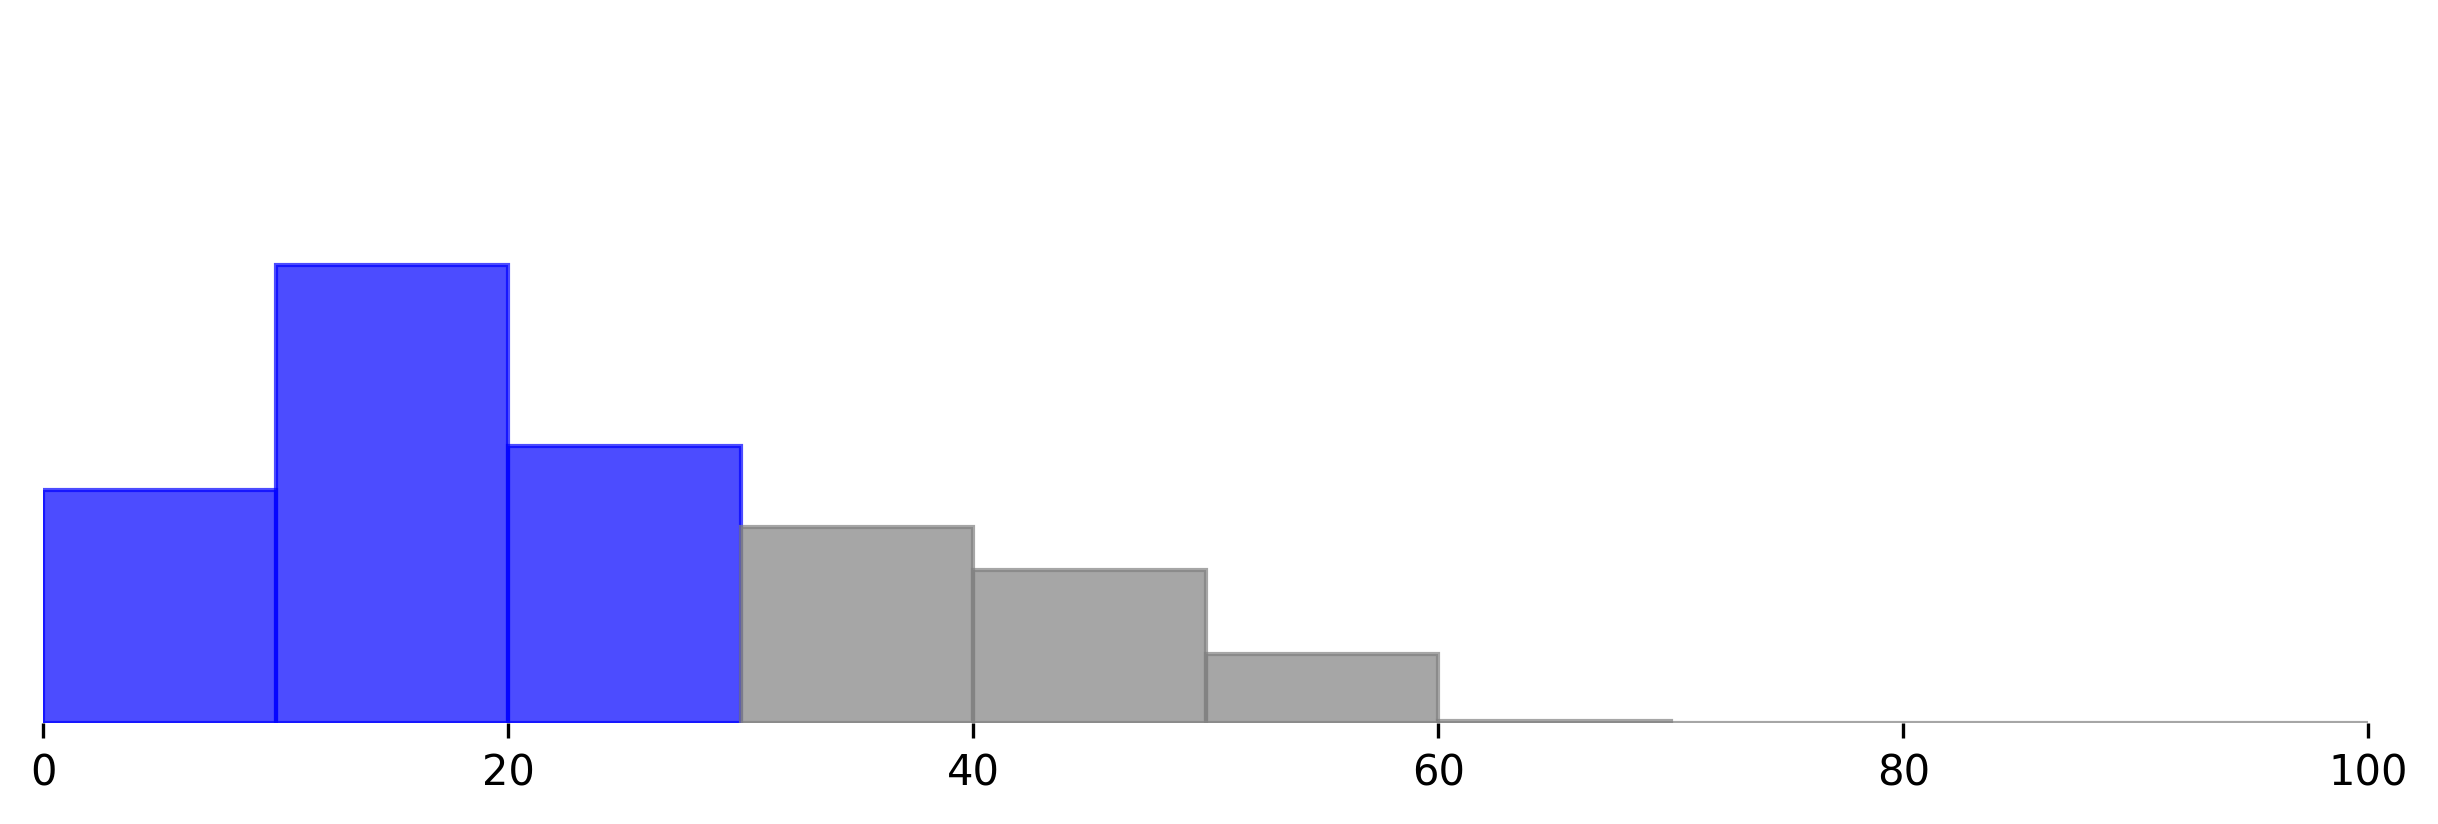
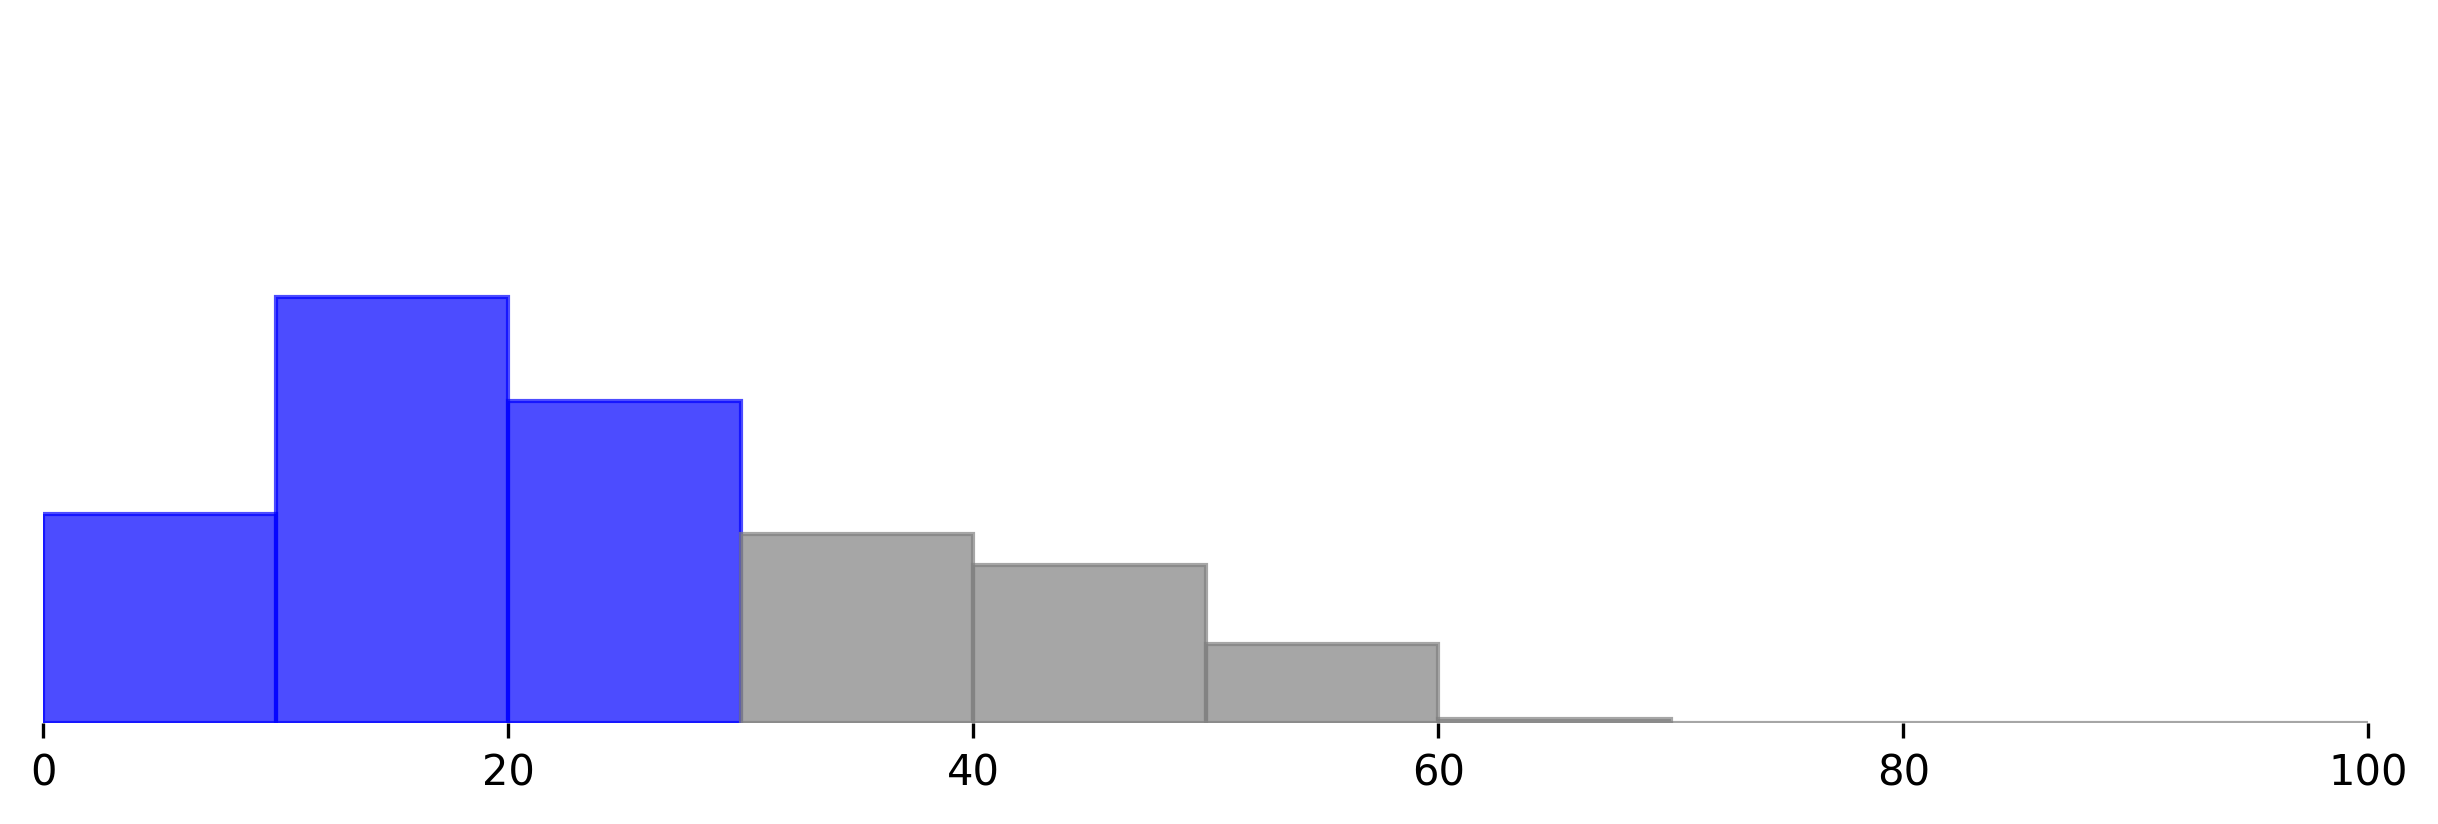
updated metrics and histograms for component prototype

diff --git a/metrics/script.py b/metrics/script.py
@@ -8,7 +8,7 @@ def generate_histogram(column, value, repo, label="trustee"):
 
     file_path = f"{repo}_prototype.csv"
     if label == "component":
-        file_path = f"{repo}_both_prototypes.csv"
+        file_path = f"{repo}_both_prototypes_v2.csv"
 
     df = pd.read_csv(file_path, encoding='gbk')
 
@@ -44,8 +44,8 @@ def generate_histogram(column, value, repo, label="trustee"):
     ax.spines['left'].set_visible(False)
     ax.spines['bottom'].set_visible(False)
     save_path = f"./images/{repo}/{column}.png"
-    if label == "component":
-        save_path = save_path = f"./images/{repo}/{column}_component.png"
+    # if label == "component":
+    #     save_path = save_path = f"./images/{repo}/{column}.png"
     plt.savefig(save_path, dpi=300, bbox_inches='tight', pad_inches=0.1)
     plt.close()
 
@@ -67,16 +67,16 @@ def generate_histogram(column, value, repo, label="trustee"):
 
 
 ### Component label
-histograms = ['community_activity_and_integrity', 'maintenance_and_goodwill', 'code_quality']
+histograms = ['community_activity_and_integrity_component', 'maintenance_and_goodwill_component', 'code_quality_component']
 
-# roughViz = [22.875, 24.825, 12.35]
-# for index, column in enumerate(histograms):
-#     generate_histogram(column, roughViz[index], 'roughViz', label="component")
+roughViz = [20.025, 24.825, 12.35]
+for index, column in enumerate(histograms):
+    generate_histogram(column, roughViz[index], 'roughViz', label="component")
 
-# twopasswords = [1.875, 15.775, 3.0]
-# for index, column in enumerate(histograms):
-#     generate_histogram(column, twopasswords[index], 'twopasswords', label="component")
+twopasswords = [2.467, 15.775, 3.0]
+for index, column in enumerate(histograms):
+    generate_histogram(column, twopasswords[index], 'twopasswords', label="component")
 
-voice_listener = [7.9, 11.075, 9.7]
+voice_listener = [8.267, 11.075, 9.7]
 for index, column in enumerate(histograms):
     generate_histogram(column, voice_listener[index], 'voice_listener', label="component")
